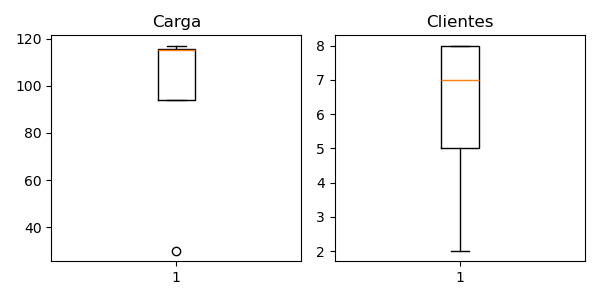
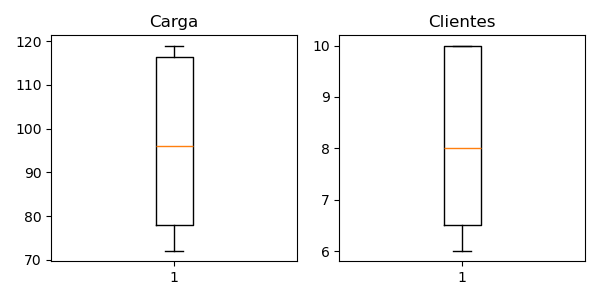
verificacion casos

diff --git a/MainCarga.py b/MainCarga.py
@@ -12,9 +12,9 @@ START_TIME = "07:45"  # Hora de inicio de operaciones (HH:MM)
 
 # Carga de datos desde CSV
 script_dir = os.path.dirname(os.path.abspath(__file__))
-pa1   = os.path.join(script_dir, 'clients.csv')
+pa1   = os.path.join(script_dir, 'clients_caso_3.csv')
 pa2   = os.path.join(script_dir, 'depots.csv')
-pa3   = os.path.join(script_dir, 'vehicles.csv')
+pa3   = os.path.join(script_dir, 'vehicles_caso_3.csv')
 clients_df = pd.read_csv(pa1)
 depots_df = pd.read_csv(pa2)
 vehicles_df = pd.read_csv(pa3)
@@ -63,7 +63,7 @@ coordenadas = build_coordinates()
 vehiculos_info = {}
 for _, row in vehicles_df.iterrows():
     vid = str(row['VehicleID'])
-    tipo = 'Dron' if not pd.isna(row.get('Speed')) else 'Camioneta'
+    tipo = 'Camioneta'
     vehiculos_info[vid] = {
         'tipo': tipo,
         'capacidad': float(row['Capacity']),
@@ -111,6 +111,7 @@ tiempos_viaje = np.zeros((n, n, Vehiculos))
 matriz_distancias = np.zeros((n, n, Vehiculos))
 
 for k, vid in enumerate(Nombre_vehiculo):
+    Speed = 80  # Ignorar cualquier valor anterior, usamos velocidad fija
     tipo = vehiculos_info[vid]['tipo']
     cap = vehiculos_info[vid]['capacidad']
     rng = vehiculos_info[vid]['rango']
@@ -125,9 +126,8 @@ for k, vid in enumerate(Nombre_vehiculo):
                 # Cálculo de costo usando los valores fijos originales
                 costo_unitario = Pf + Ft + Cm + Seguros + Peajes + Salarios
                 cost[i-1, j-1, k] = d * costo_unitario * factor_cost
-                # Cálculo de tiempo (en horas)
-                speed = vehicles_df.loc[vehicles_df['VehicleID'] == int(vid), 'Speed'].values
-                velocidad = float(speed[0]) if speed.size and not pd.isna(speed[0]) else 60
+                # Cálculo de tiempo (en horas) usando velocidad fija
+                velocidad = 80  # velocidad constante
                 tiempos_viaje[i-1, j-1, k] = round((d / velocidad) * factor_time, 2)
                 #if i <= n_initial and j <= n_initial:
                     #print("El tiempo de viaje entre el nodo", i, "y el nodo", j, "es:", round(tiempos_viaje[i-1, j-1, k]*60, 2), "minutos para el vehículo", vid)
@@ -142,27 +142,9 @@ matriz_distancias = matriz_distancias.tolist()
 Capacidad_util = {k+1: vehiculos_info[vid]['capacidad'] for k, vid in enumerate(Nombre_vehiculo)}
 Distancia_util = {k+1: vehiculos_info[vid]['rango'] for k, vid in enumerate(Nombre_vehiculo)}
 
-# Construcción de ventanas de tiempo
-# Nodo 1: inicio 0, fin 12:00 PM
-start_h, start_m = map(int, START_TIME.split(':'))
-start_min = start_h * 60 + start_m
 ventanas_tiempo = {}
-ventanas_tiempo[1] = (0, 12 * 60)
-# Clientes: ventanas relativas desde START_TIME
-def parse_tw(tw_str):
-    s_str, e_str = tw_str.split('-')
-    sh, sm = map(int, s_str.split(':'))
-    eh, em = map(int, e_str.split(':'))
-    return (sh * 60 + sm, eh * 60 + em)
-for idx, row in clients_df.iterrows():
-    node = n_depots + idx + 1
-    tw_start, tw_end = parse_tw(row['TimeWindow'])
-    rel_start = max(0, tw_start - start_min)
-    rel_end = max(0, tw_end - start_min)
-    ventanas_tiempo[node] = (rel_start, rel_end)
-# Nodos de reabastecimiento: misma ventana que CD
-for node in nodo_reabastecimiento:
-    ventanas_tiempo[node] = ventanas_tiempo[1]
+for node in range(1, n + 1):
+    ventanas_tiempo[node] = (0, 1440)  # ventana abierta todo el día (en minutos)
 
 print(ventanas_tiempo)
 

diff --git a/ProyectoB.py b/ProyectoB.py
@@ -25,8 +25,8 @@ def load_data(folder: str = '.') -> tuple:
 
     try:
         ddf = pd.read_csv(os.path.join(folder, 'depots.csv'))
-        cdf = pd.read_csv(os.path.join(folder, 'clients.csv'))
-        vdf = pd.read_csv(os.path.join(folder, 'vehicles.csv'))
+        cdf = pd.read_csv(os.path.join(folder, 'clients_caso_3.csv'))
+        vdf = pd.read_csv(os.path.join(folder, 'vehicles_caso_3.csv'))
     except FileNotFoundError as e:
         print('CSV no encontrado →', e)
         sys.exit(1)
